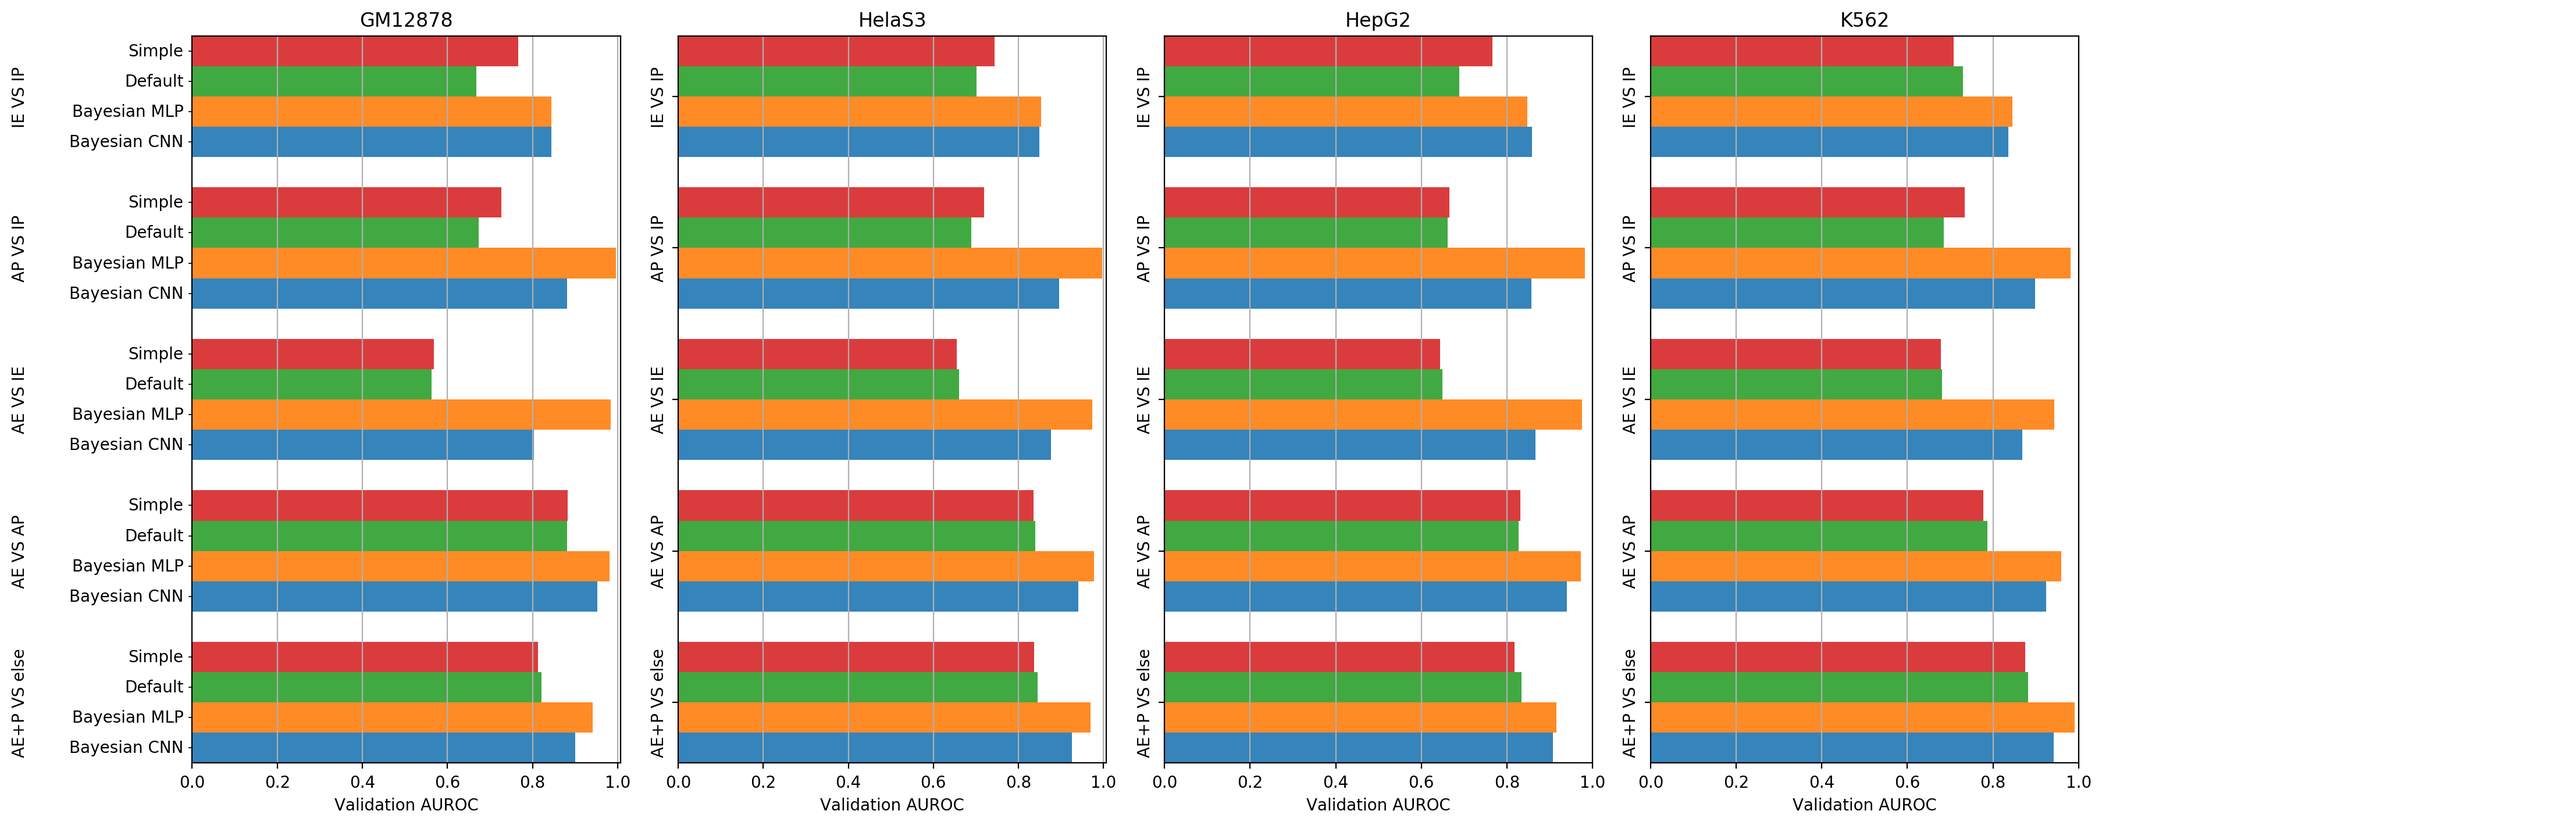
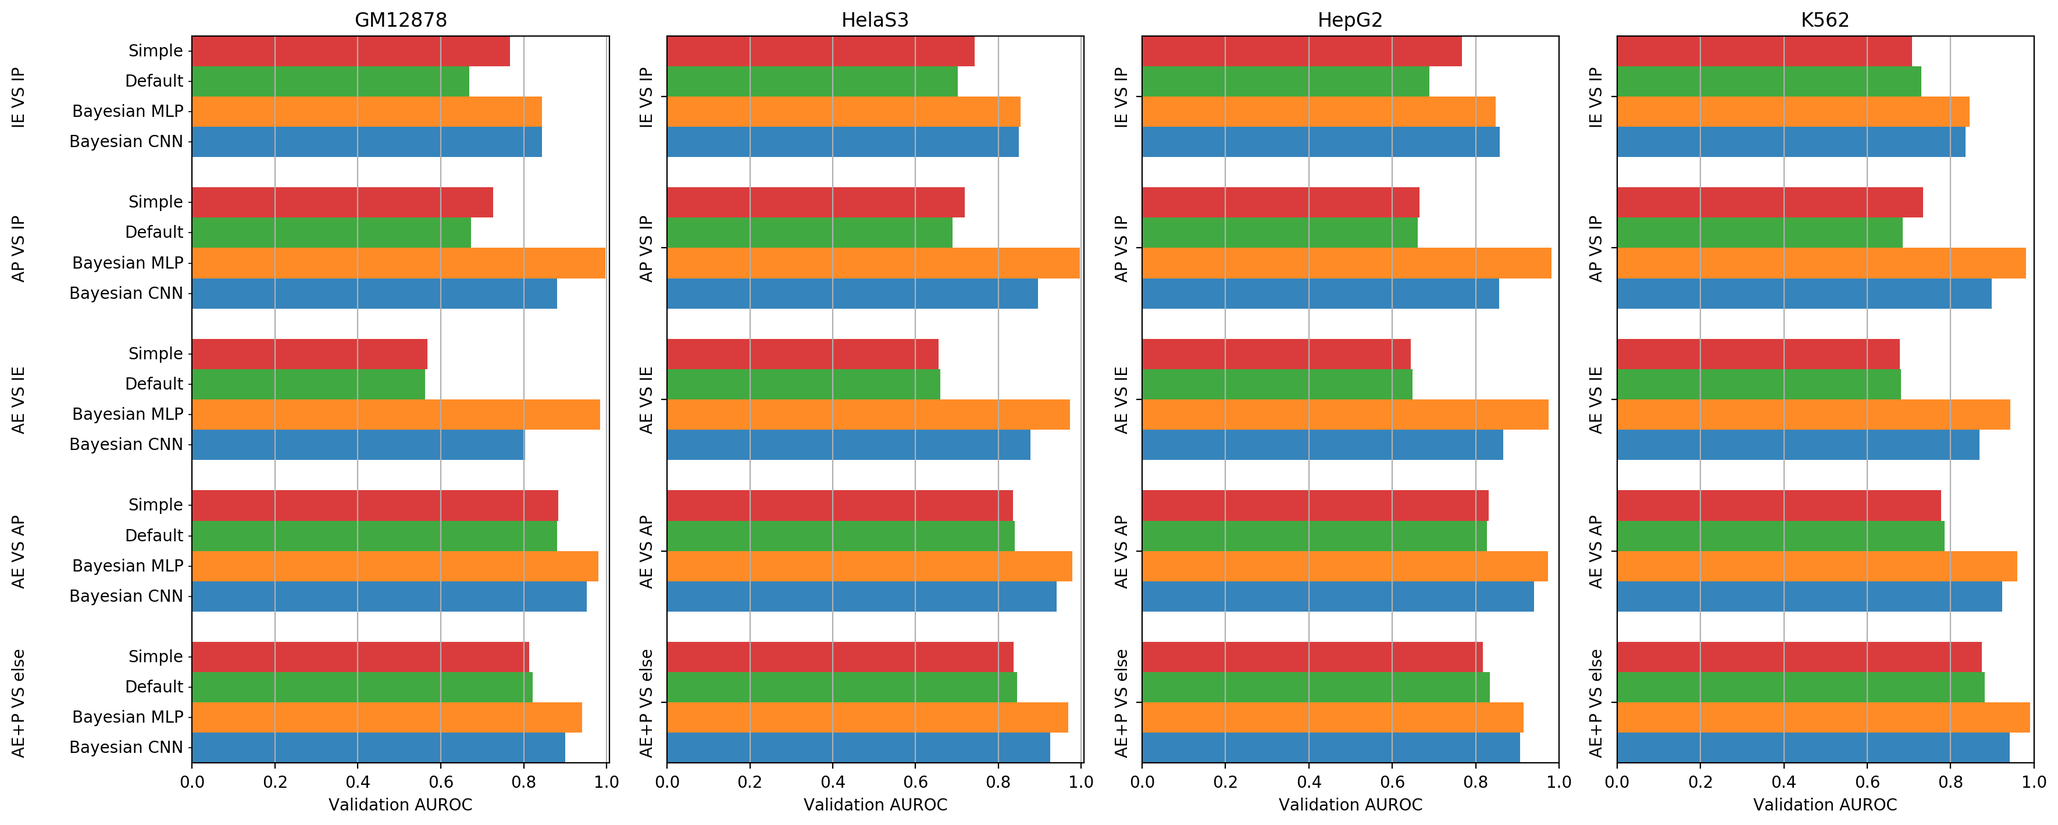
Extended testing

diff --git a/barplots/utils/text_positions.py b/barplots/utils/text_positions.py
@@ -24,10 +24,7 @@ def text_positions(df: pd.DataFrame, bar_width: float, index_level: int) -> Gene
                 text_position = old_bar_position
                 if j in labels_offsets:
                     text_position += labels_offsets[j]
-                if is_last(df, i):
-                    if j != len(jumps)-1:
-                        text_position += bar_width
-                else:
+                if not is_last(df, i):
                     bar_position += bar_width
                 if j == index_level:
                     yield text_position/2 + bar_width/2, old_index[j]
